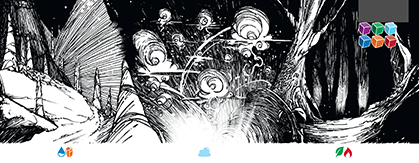
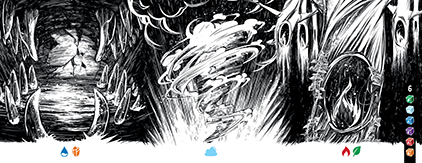
update exp boards

diff --git a/glowexpansion.js b/glowexpansion.js
@@ -1854,7 +1854,7 @@ var MeetingTrack = /** @class */ (function () {
         this.soloTilesStocks = [];
         var solo = playerCount == 1;
         if (playerCount >= 5) {
-            document.getElementById("meeting-track").insertAdjacentHTML('afterbegin', "\n                <div id=\"meeting-track-expansion\" data-players=\"" + playerCount + "\">\n                    <div class=\"label\">" + _('${playerCount} players').replace('${playerCount}', playerCount) + "</div>\n                </div>\n            ");
+            document.getElementById("meeting-track").insertAdjacentHTML('afterbegin', "\n                <div id=\"meeting-track-expansion\" data-players=\"" + playerCount + "\"></div>\n            ");
         }
         if (solo) {
             dojo.place("<div id=\"meeting-track-dice-0\" class=\"meeting-track-zone dice\" style=\"left: 57px;\"></div>", 'meeting-track');

diff --git a/glowexpansion.css b/glowexpansion.css
@@ -797,27 +797,17 @@ body > .card {
 }
 #meeting-track #meeting-track-expansion {
   position: absolute;
-  width: 419px;
+  width: 422px;
   height: 163px;
   top: 0;
   left: 916px;
+  margin-left: 8px;
 }
 #meeting-track #meeting-track-expansion[data-players="5"] {
   background-image: url("img/meeting-track-little-board-5p.png");
 }
 #meeting-track #meeting-track-expansion[data-players="6"] {
   background-image: url("img/meeting-track-little-board-6p.png");
-}
-#meeting-track #meeting-track-expansion .label {
-  position: absolute;
-  width: 70px;
-  top: 2px;
-  right: 0;
-  color: white;
-  font-family: "glow";
-  text-align: center;
-  font-size: 16pt;
-  white-space: nowrap;
 }
 #meeting-track .meeting-track-zone {
   position: absolute;

diff --git a/src/meeting-track/_meeting-track.scss b/src/meeting-track/_meeting-track.scss
@@ -7,28 +7,17 @@
 
   #meeting-track-expansion {
     position: absolute;
-    width: 419px;
+    width: 422px;
     height: 163px;
     top: 0;
     left: 916px;
+    margin-left: 8px;
 
     &[data-players="5"] {
       background-image: url('img/meeting-track-little-board-5p.png'); 
     }
     &[data-players="6"] {
       background-image: url('img/meeting-track-little-board-6p.png'); 
-    }
-
-    .label {
-      position: absolute;
-      width: 70px;
-      top: 2px;
-      right: 0;
-      color: white;
-      font-family: "glow";
-      text-align: center;
-      font-size: 16pt;
-      white-space: nowrap;
     }
   }
 

diff --git a/src/meeting-track/meeting-track.ts b/src/meeting-track/meeting-track.ts
@@ -24,9 +24,7 @@ class MeetingTrack {
 
         if (playerCount >= 5) {
             document.getElementById(`meeting-track`).insertAdjacentHTML('afterbegin', `
-                <div id="meeting-track-expansion" data-players="${playerCount}">
-                    <div class="label">${_('${playerCount} players').replace('${playerCount}', playerCount)}</div>
-                </div>
+                <div id="meeting-track-expansion" data-players="${playerCount}"></div>
             `);
         }
 
